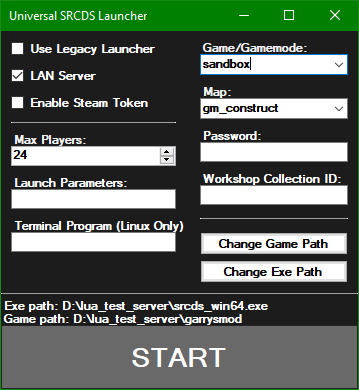
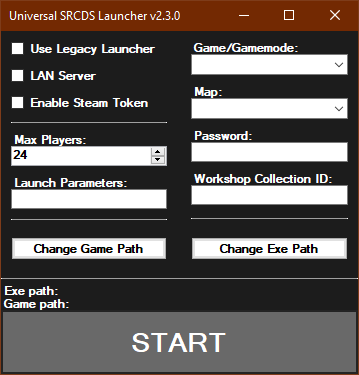
Update readme & reference image

diff --git a/README.md b/README.md
@@ -2,7 +2,6 @@
  This is a replacement launcher compatible with any GoldSrc, Source, or Source 2 dedicated server that allows you to launch your servers with additional options, without having to use a command line or manually type out parameters for a shortcut. The launcher supports Windows 7 and newer, and should also work on any Linux distro with Mono installed.
 
 ![](https://raw.githubusercontent.com/LambdaGaming/GMod-Server-Launcher-Console/master/reference.PNG)
-![](https://raw.githubusercontent.com/LambdaGaming/GMod-Server-Launcher-Console/master/reference2.png)
 
 # Features
 - Option to use legacy launcher. If this is enabled, most other options will be disabled since the legacy launcher will ignore them.
@@ -19,9 +18,8 @@
   - Certain games including Garry's Mod and CS:GO require the server to be registered with Steam in this way for it to show up in the server browser
 - Steam workshop collection option (`+host_workshop_collection`)
 - Input for additional launch parameters
-- Linux terminal program name
-  - If you're on Linux, you can have the server open in the terminal program of your choice by entering the terminal's command name followed by the parameter to execute the built-in command, as well as any other parameters you'd like
-  - Examples: `gnome-terminal --`, `konsole -e`
+- Full Linux support
+  - The launcher will automatically scan for installed terminals and launch the server through one of them. Only a handful of terminals are currently supported, so if you want to use one that's unsupported please let me know.
 - All settings are saved when the launcher closes and will be automatically restored when the launcher is opened again.
 
 # Notes
